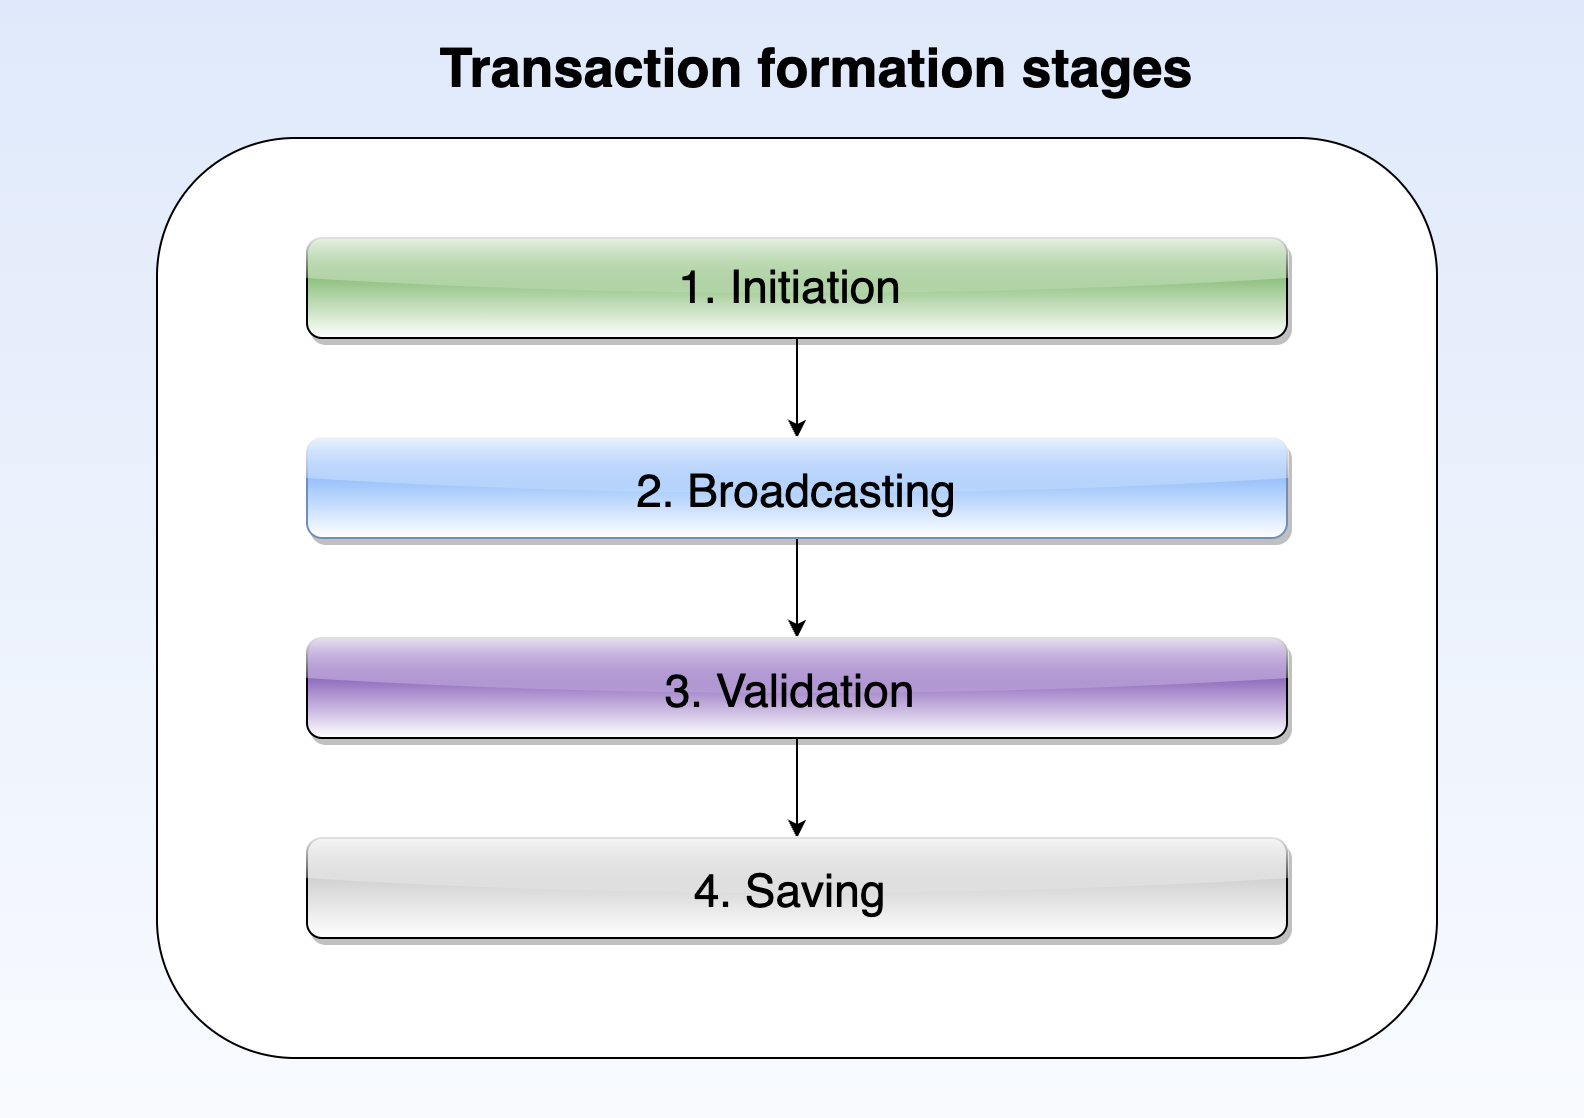
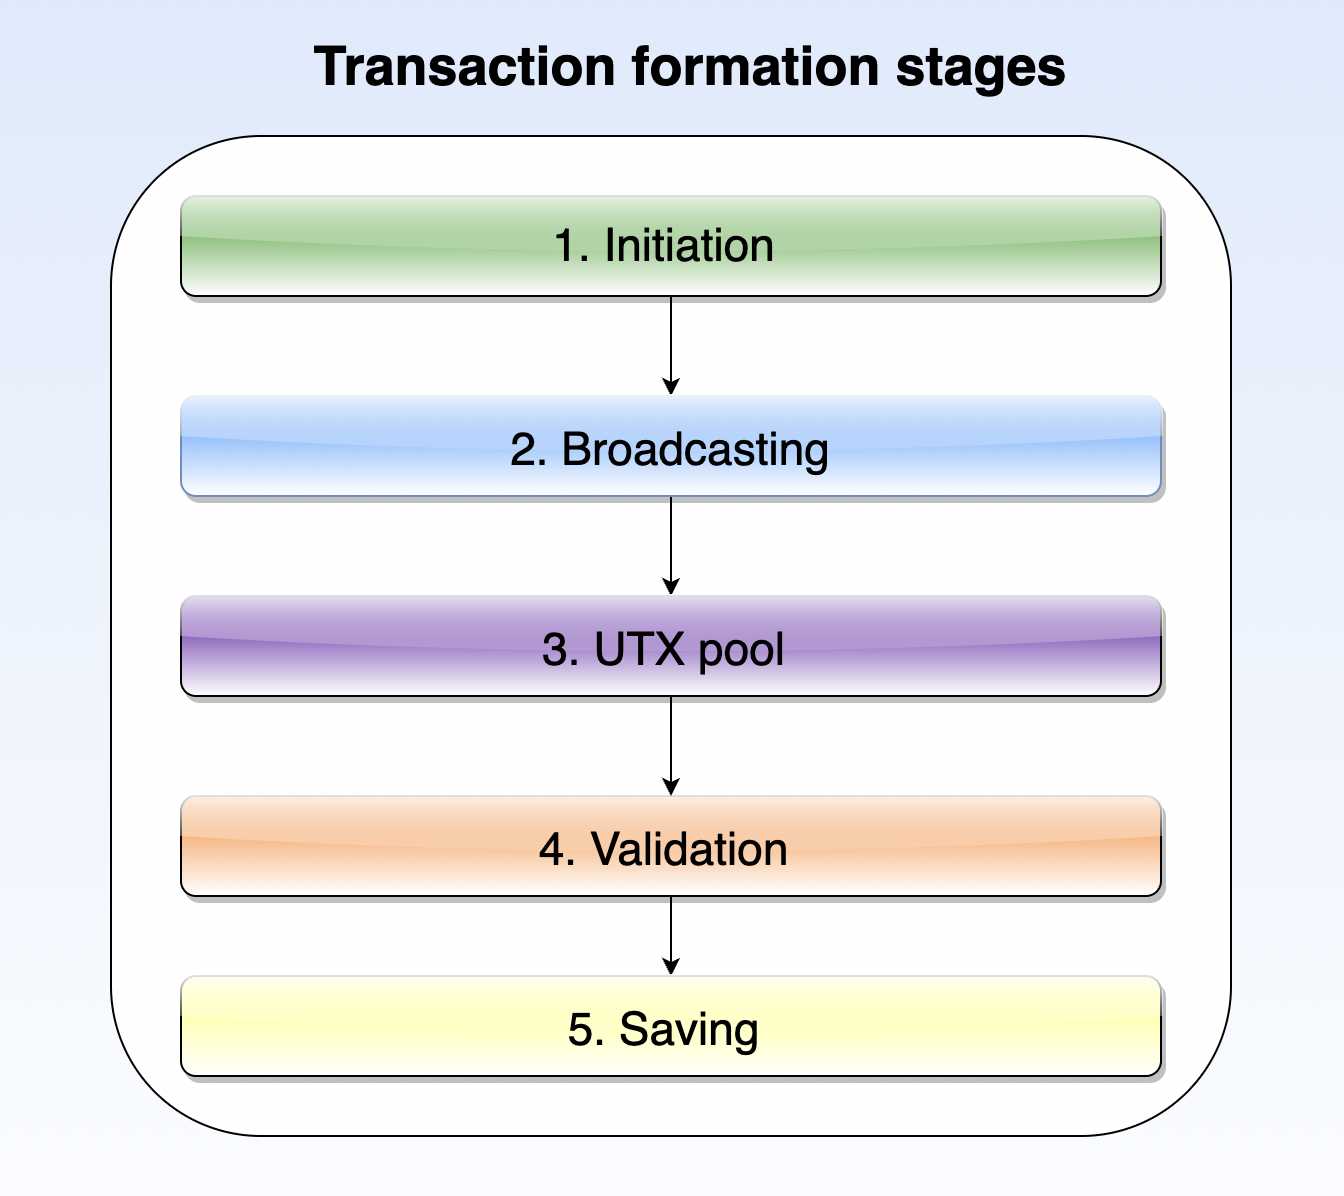
tx interim

diff --git a/lessons/EN/D. Work with assets, accounts, and transactions/с. Transaction definition and work with transactions/lesson.md b/lessons/EN/D. Work with assets, accounts, and transactions/с. Transaction definition and work with transactions/lesson.md
@@ -5,40 +5,71 @@
 
 ## Transaction definition ##
 
-A transaction is an action made on the blockchain on behalf of an [account](). Every transaction is associated with an account and is inseparable from it. In this lesson’s chapter [Transaction types](#transaction-types), you will become familiar with all possible actions within the Waves blockchain. A regular transaction demonstration can be a cryptocurrency transfer from one account to another. Here we have both an account and an action made on behalf of that account - a transfer from one wallet to another.
+A transaction is an action made on the blockchain on behalf of an [account](). Every transaction is associated with an account and is inseparable from it. In this lesson’s chapter [Transaction types](#transaction-types), you will become familiar with all possible transaction types within the Waves blockchain. A regular transaction demonstration can be a cryptocurrency transfer from one account to another. Here we have both an account and an action made on behalf of that account - a transfer from one wallet to another.
 
-Every transaction goes through different stages, from its initiation to the final appearance on the blockchain, which will be elaborated in the chapter [Stages of a transaction formation](#stages-of-a-transaction-formation). All transactions are charged with a [fee](#transaction-fees).
+Every transaction goes through different formation stages, from its initiation to the final appearance on the blockchain, which will be elaborated in the chapter [Stages of a transaction formation](#stages-of-a-transaction-formation). All transactions are charged with a [fee](#transaction-fees).
 
 ## Stages of a transaction formation ##
 
-Before a transaction gets into the blockchain, it has to pass all necessary stages
+Before a transaction gets into the blockchain, it has to pass all necessary stages of transaction formation. At the illustration below you may see five major steps that every transaction goes through:
 
 ![](./img/txstages.png)
 
+There are five important steps:
+1. **<u>Transaction initilization</u>**  
+    During this step, an account initiates a transaction, specifying all necessary parameters. Once all parameters are specified, the transaction has to be signed with a [private key]() of that account. The signature represents proof that the account owner initiated the transaction. For example, we can refer to an [Issue transaction]() that issues a new asset, where a user needs to specify the name of the asset, its quantity, reissuability, etc. Afterward, the transaction gets signed by the account owner.
+2. **<u>Transaction broadcasting</u>**  
+    A signed transaction has to be broadcasted to a node, which means sending to a node an information about the signed transaction. For example, it can be done via the [REST API](http://127.0.0.1:6869/api-docs/index.html#/transactions/broadcastSignedTx) service of your node with a [JSON transaction representation](https://docs.waves.tech/en/blockchain/transaction/#json-representation). Also, if a user is more interface-oriented, another example can be given: once an account in [Waves Exchange](https://waves.exchange/) goes to the [WAVES withdrawal page](https://waves.exchange/withdraw/WAVES) and transfers WAVES to another wallet, the transaction will be broadcasted to a node.
+3. **<u>UTX pool</u>**  
+    A node that received a broadcasted transaction will send this transaction to the UTX pool (Unconfirmed Transaction Pool). This is a place, where all transactions are temporarily stored and checked whether they are valid before it is decided if this transaction can be included in the blockchain. A real life comparison can be a conveyer that operates with car parts and separates all working parts from defective ones. 
+4. **<u>Transaction Validation</u>**  
+    Multiple nodes in the network are working with the UTX pool and verifying transactions. The verification process includes such elements as checking if an account truly initiated the transaction and signed it with a valid private key, if the account had a sufficient available balance, and so on. Different [transaction types](#transaction-types) have different parameters to be verified. 
+5. **<u>Saving into the blockchain</u>**  
+    In the module [Mining and earning on it](), we installed a node that is ready for mining. In this final step, a node that will generate the next block will include a transaction in the blockchain if it was verified by nodes within the verification step out of the UTX pool.
+     
 ## Transaction fees ##
+
 
 ## Transaction types ##
 
-There are multiple different operations that we can perform with with an account:
+There are five transactions types within the Waves blockchain:
+- **<u>Work with assets</u>**
+    - Issue
+    - Reissue
+    - Update asset info
+    - Burn
+    - Set asset script
+    - Set sponsorship
+- **<u>Work with accounts</u>**
+  - Alias
+  - Data
+  - Set script
+  - Invoke script
+- **<u>Performing transfers</u>**
+  - Transfer
+  - Mass transfer
+  - Exchange
+- **<u>Leasing</u>**
+  - Lease
+  - Lease cancel
+- **<u>Ethereum transaction</u>**
 
 
 
-1. Stages of transaction formation
+1. TX definition
+2. Stages of transaction formation
 - an account signs (either my node offers tx or an official Waves node automatically works if a service used)
 - broadcasts
-- all nodes verify it (validation - refer to https://docs.waves.tech/en/blockchain/transaction/transaction-validation)
-- if ok - appears on the bc (limitations of a block to contain 1 MB)
-(is it an account who initiates a tx or a node?)
-(difference between a smart/dApp account or a regular account)
-(is it all nodes verifying or 8 confirmations is enough?    )
-(In which cases errors may occur so tx would fail or marked as declined)
-2. It is stored in binary format (bytes) in the blockchain
-3. Tx can be viewed in Waves Exp or rest api swagger?
-(How about libraries?)
+- all nodes verify it 
+(validation - refer to https://docs.waves.tech/en/blockchain/transaction/transaction-validation)
+- if ok - appears on the bc 
+(limitations of a block to contain 1 MB)
+3. It is stored in binary format (bytes) in the blockchain
+4. Tx can be viewed in Waves Exp or rest api swagger?
 - If swagger used, it will look like JSON
 - If Waves Exp - human readable format
 - If libs?
-4. Metnion fees
+1. Metnion fees
 By default, Waves receives all comissions, yet if someone decides to create their own sponsored asset, he can receive a comission as well (platform will retain its share still)
-5. Transaction types with reference to its chapter.
+6. Transaction types with reference to its chapter.
 Mostly division of transaction and their relevant description
